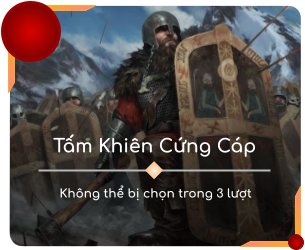
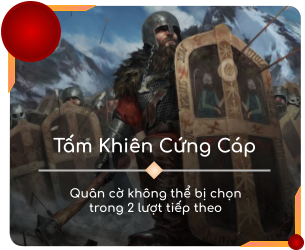
Update

Changed region(s): [[0.177, 0.728, 0.8262, 0.868]]

diff --git a/CMC/main.py b/CMC/main.py
@@ -143,13 +143,13 @@ def setting_game(names):
             env = temp[0]
         pygame.time.delay(50)
 
-    x = 100
+    x = 175
     pygame.time.delay(50)
     while pause:
         textSurface = init.font60.render('TÙY CHỈNH', True, 'white')
         textRect = textSurface.get_rect()
         interval = (WinHeight - offsetHeight) / 6
-        textRect.center = ((WinWidth / 2), offsetHeight * 2 - 50)
+        textRect.center = ((WinWidth / 2), offsetHeight * 2 - 100)
         cell.Cell(0, 0, init.listImage[env]['Background']).draw(WIN, WinHeight, WinWidth)
         WIN.blit(pygame.transform.scale(init.listImage['GEI']['Darker'], (WIDTH, WinHeight)), (offsetWidth, 0))
         WIN.blit(textSurface, textRect)
@@ -157,25 +157,26 @@ def setting_game(names):
         for event in pygame.event.get():
             if event.type == pygame.QUIT:
                 end_game()
-        drawTextImg(timeLeft, init.listImage['GUI']['White Timer'], (WinWidth / 2) - 225, 400 - x, 300, 100, font=init.font50)
-        WIN.blit(init.font15.render('THỜI GIAN TỔNG', True, 'black'), ((WinWidth / 2) - 140, 402 - x))
-        WIN.blit(init.font15.render('PHÚT', True, 'black'), ((WinWidth / 2) - 170, 477 - x))
-        WIN.blit(init.font15.render('GIÂY', True, 'black'), ((WinWidth / 2) - 20, 477 - x))
-        drawTextImg(str(init.SETTINGS['Time Bonus']), init.listImage['GUI']['White Timer'], (WinWidth / 2) + 125, 400 - x, 100, 100, font=init.font50)
-        WIN.blit(init.font15.render('THƯỞNG', True, 'black'), ((WinWidth / 2) + 140, 402 - x))
-        WIN.blit(init.font15.render('GIÂY', True, 'black'), ((WinWidth / 2) + 155, 477 - x))
-        button('', init.listImage['GUI']['Arrow_Up'], '', (WinWidth / 2) - 180, 330 - x, 60, 50, add_min, value = 60)
-        button('', init.listImage['GUI']['Arrow_Up'], '', (WinWidth / 2) - 30, 330 - x, 60, 50, add_second, value = 1)
-        button('', init.listImage['GUI']['Arrow_Up'], '', (WinWidth / 2) + 145, 330 - x, 60, 50, add_time_bonus, value = 1)
-        button('', init.listImage['GUI']['Arrow_Down'], '', (WinWidth / 2) - 180, 520 - x, 60, 50, add_min, value = -60)
-        button('', init.listImage['GUI']['Arrow_Down'], '', (WinWidth / 2) - 30, 520 - x, 60, 50, add_second, value = -1)
-        button('', init.listImage['GUI']['Arrow_Down'], '', (WinWidth / 2) + 145, 520 - x, 60, 50, add_time_bonus, value = -1)
+        drawTextImg(timeLeft, init.listImage['GUI']['White Timer'], (WinWidth / 2) - 225, 425 - x, 300, 100, font=init.font50)
+        WIN.blit(init.font15.render('THỜI GIAN TỔNG', True, 'black'), ((WinWidth / 2) - 140, 427 - x))
+        WIN.blit(init.font15.render('PHÚT', True, 'black'), ((WinWidth / 2) - 170, 502 - x))
+        WIN.blit(init.font15.render('GIÂY', True, 'black'), ((WinWidth / 2) - 20, 502 - x))
+        drawTextImg(str(init.SETTINGS['Time Bonus']), init.listImage['GUI']['White Timer'], (WinWidth / 2) + 125, 425 - x, 100, 100, font=init.font50)
+        WIN.blit(init.font15.render('THƯỞNG', True, 'black'), ((WinWidth / 2) + 140, 422 - x))
+        WIN.blit(init.font15.render('GIÂY', True, 'black'), ((WinWidth / 2) + 155, 497 - x))
+        button('', init.listImage['GUI']['Arrow_Up'], '', (WinWidth / 2) - 180, 360 - x, 60, 50, add_min, value = 60)
+        button('', init.listImage['GUI']['Arrow_Up'], '', (WinWidth / 2) - 30, 360 - x, 60, 50, add_second, value = 1)
+        button('', init.listImage['GUI']['Arrow_Up'], '', (WinWidth / 2) + 145, 360 - x, 60, 50, add_time_bonus, value = 1)
+        button('', init.listImage['GUI']['Arrow_Down'], '', (WinWidth / 2) - 180, 540 - x, 60, 50, add_min, value = -60)
+        button('', init.listImage['GUI']['Arrow_Down'], '', (WinWidth / 2) - 30, 540 - x, 60, 50, add_second, value = -1)
+        button('', init.listImage['GUI']['Arrow_Down'], '', (WinWidth / 2) + 145, 540 - x, 60, 50, add_time_bonus, value = -1)
 
         button('', init.listImage['GUI']['Arrow_Right'], '', (WinWidth / 2) + 245, 720 - x, 50, 60, next_env, value = 1)
         button('', init.listImage['GUI']['Arrow_Left'], '', (WinWidth / 2) - 295, 720 - x, 50, 60, next_env, value = -1)
         button(env, init.listImage[env]['Background'], init.listImage['GEI']['Darken'], (WinWidth / 2) - 200, 620 - x, 400, 250, new_game, color='white', names=names)
 
-        button('BẮT ĐẦU!', init.listImage['GUI']['Button'], init.listImage['GUI']['Hover_Button'], (WinWidth / 2) - 363 / 2, 800, 363, 100, new_game, names=names)
+        button('BẮT ĐẦU!', init.listImage['GUI']['Button'], init.listImage['GUI']['Hover_Button'], (WinWidth / 2) - 363 / 2, 720, 363, 100, new_game, names=names)
+        button('QUAY LẠI', init.listImage['GUI']['Button'], init.listImage['GUI']['Hover_Button'], (WinWidth / 2) - 363 / 2, 850, 363, 100, game_intro)
         pygame.display.update()
 
 def mouse_on_board(pos):
@@ -257,8 +258,8 @@ def update_display():
     Cập nhập cửa sổ hiển thị
     :return: None
     """
-    pygame.time.delay(10)
-    WIN.unlock()
+    # pygame.time.delay(10)
+    # WIN.unlock()
     WIN.fill('white')
     nboard.draw(WIN)
     ncard.draw(WIN, init.font40, Players[turns % 2])
@@ -283,6 +284,10 @@ def main():
     """
     pygame.time.delay(50)
     turn_on_music()
+    try:
+        thread.join()
+    except:
+        pass
     global pause, phase, turns, startTurnTime, timing, playingTeam, clicked, BOT_Thingking, redraw, required, selectedPos, selected
     pause = False
     while True:
@@ -449,6 +454,7 @@ def button(text, img, img_h, x, y, width, height, action = None, color = 'black'
     :return: None
     """
     global clicked
+    pygame.time.delay(5)
     img = pygame.transform.scale(img, (width, height))
     WIN.blit(img, (x, y))
     mouse = pygame.mouse.get_pos()
@@ -499,7 +505,7 @@ def paused():
                 if event.key == pygame.K_ESCAPE:
                     main()
         button('CHƠI TIẾP', init.listImage['GUI']['Button'], init.listImage['GUI']['Hover_Button'], (WinWidth / 2) - 363 / 2, 2 * interval, 363, 100, main)
-        button('CHƠI MỚI', init.listImage['GUI']['Button'], init.listImage['GUI']['Hover_Button'], (WinWidth / 2) - 363 / 2, 3 * interval, 363, 100, setting_game)
+        button('CHƠI MỚI', init.listImage['GUI']['Button'], init.listImage['GUI']['Hover_Button'], (WinWidth / 2) - 363 / 2, 3 * interval, 363, 100, setting_game, player1 = Players[0].get_name(), player2 = Players[1].get_name())
         button('MENU', init.listImage['GUI']['Button'], init.listImage['GUI']['Hover_Button'], (WinWidth / 2) - 363 / 2, 4 * interval, 363, 100, game_intro)
         button('THOÁT', init.listImage['GUI']['Button'], init.listImage['GUI']['Hover_Button'], (WinWidth / 2) - 363 / 2, 5 * interval, 363, 100, end_game)
         pygame.display.update()
@@ -512,7 +518,7 @@ def endGame():
     pygame.mixer.music.pause()
     global pause
     pause = True
-    textSurface = init.font60.render('Player ' + str(turns % 2 + 1) + ' WIN', True, 'white')
+    textSurface = init.font60.render(Players[turns%2].get_name() + ' WIN', True, 'white')
     textRect = textSurface.get_rect()
     interval = (WinHeight - offsetHeight) / 6
     textRect.center = ((WinWidth / 2), offsetHeight*2)
@@ -523,7 +529,7 @@ def endGame():
         for event in pygame.event.get():
             if event.type == pygame.QUIT:
                 end_game()
-        button('CHƠI LẠI', init.listImage['GUI']['Button'], init.listImage['GUI']['Hover_Button'], (WinWidth / 2) - 363 / 2, 2 * interval, 363, 100, new_game, names=names)
+        button('CHƠI LẠI', init.listImage['GUI']['Button'], init.listImage['GUI']['Hover_Button'], (WinWidth / 2) - 363 / 2, 2 * interval, 363, 100, new_game, names={'player1':Players[0].get_name(), 'player2':Players[1].get_name()})
         button('MENU', init.listImage['GUI']['Button'], init.listImage['GUI']['Hover_Button'], (WinWidth / 2) - 363 / 2, 3 * interval, 363, 100, game_intro)
         button('THOÁT', init.listImage['GUI']['Button'], init.listImage['GUI']['Hover_Button'], (WinWidth / 2) - 363 / 2, 4 * interval, 363, 100, end_game)
         pygame.display.update()
@@ -635,6 +641,9 @@ def Simulator_Turn(nBoard, nPlayer, nTurn):
 
     BestMove = []
 
+    if nBoard.is_finished():
+        return chess.PHASE['End'], -10000
+
     if nTurn > Limit_Turn:
         return chess.PHASE['End'], 0
     Sim_Board, Sim_Players = convert_data(nBoard, nPlayer)
@@ -667,7 +676,7 @@ def Simulator_Turn(nBoard, nPlayer, nTurn):
                     sSim_Board.select_Move(tindex, move, histLog=False)
                     result = Simulator_Turn(sSim_Board, sSim_Player, nTurn + 1)
                     point = sSim_Board.get_Score(playingTeam) - result[-1]
-                    # print(object[1].convert_to_readable(), nTurn, tindex, move, point)
+                    print(object[1].convert_to_readable(), nTurn, tindex, move, point)
                     if point > tPoint:
                         tPoint = point
                         tIndex = move
@@ -683,69 +692,66 @@ def Simulator_Turn(nBoard, nPlayer, nTurn):
                 elif tPoint == maxPoint:
                     BestMove += recommentMoves
 
-                try:
-                    for i in range(len(nCard)):
-                        cSim_Board, cSim_Player = convert_data(Sim_Board, Sim_Players)
-                        rBoard = cSim_Board.getrBoard()
-                        required = cSim_Player[nTurn%2].pick_card(i)
-                        CastMagic = cSim_Player[nTurn%2].play_card(cSim_Board, [(object[0][1], object[0][0])])
-                        if 'Fail' not in CastMagic and required == 2 and Sim_Players[nTurn%2].get_name() == 'BOT':
-                            tPoint = -999
-                            tIndex = 0
-                            for x in range(8):
-                                for y in range(8):
-                                    if 'x' in rBoard[x][y]:
-                                        # print(rBoard[x][y], (x, y))
-                                        cSim_Board, cSim_Player = convert_data(Sim_Board, Sim_Players)
-                                        cSim_Player[nTurn % 2].pick_card(i)
-                                        if 'Casted' in cSim_Player[nTurn%2].play_card(cSim_Board, [(object[0][1], object[0][0]), (x, y)]):
-                                            result = Simulator_Turn(cSim_Board, cSim_Player, nTurn + 1)
-                                            point = cSim_Board.get_Score(playingTeam) - result[-1]
-                                            # print(nCard[i].get_name(), object[1].convert_to_readable(), tindex, (x, y), point)
-                                            if point > tPoint:
-                                                tPoint = point
-                                                tIndex = (x, y)
-                                                recommentMoves = [('Card', tindex, tIndex, i)]
-                                            elif point == tPoint:
-                                                tPoint = point
-                                                tIndex = (x, y)
-                                                recommentMoves.append(('Card', tindex, tIndex, i))
-                                            elif point < minCard:
-                                                minCard  = point
-                                                redraw = i
-                            if tPoint > maxPoint:
-                                maxPoint = tPoint
-                                BestMove = recommentMoves
-                            elif tPoint == maxPoint:
-                                BestMove += recommentMoves
-                        elif 'Casted' in CastMagic and required == 2 and Sim_Players[nTurn%2].get_name() == 'BOT':
-                            result = Simulator_Turn(cSim_Board, cSim_Player, nTurn + 1)
-                            point = cSim_Board.get_Score(playingTeam) - result[-1]
-                            # print(nCard[i].get_name(), object[1].convert_to_readable(), tindex, (x, y), point)
-                            if point > maxPoint:
-                                maxPoint = point
-                                tIndex = []
-                                BestMove = [('Card', tindex, tIndex, i)]
-                            elif point == maxPoint:
-                                tPoint = point
-                                tIndex = []
-                                recommentMoves.append(('Card', tindex, tIndex, i))
-                            elif point < minCard:
-                                minCard = point
-                                redraw = i
-
-                except:
-                    print('Error')
+                # try:
+                #     for i in range(len(nCard)):
+                #         cSim_Board, cSim_Player = convert_data(Sim_Board, Sim_Players)
+                #         rBoard = cSim_Board.getrBoard()
+                #         required = cSim_Player[nTurn%2].pick_card(i)
+                #         CastMagic = cSim_Player[nTurn%2].play_card(cSim_Board, [(object[0][1], object[0][0])])
+                #         if 'Fail' not in CastMagic and required == 2 and Sim_Players[nTurn%2].get_name() == 'BOT':
+                #             tPoint = -999
+                #             tIndex = 0
+                #             for x in range(8):
+                #                 for y in range(8):
+                #                     if 'x' in rBoard[x][y]:
+                #                         # print(rBoard[x][y], (x, y))
+                #                         cSim_Board, cSim_Player = convert_data(Sim_Board, Sim_Players)
+                #                         cSim_Player[nTurn % 2].pick_card(i)
+                #                         if 'Casted' in cSim_Player[nTurn%2].play_card(cSim_Board, [(object[0][1], object[0][0]), (x, y)]):
+                #                             result = Simulator_Turn(cSim_Board, cSim_Player, nTurn + 1)
+                #                             point = cSim_Board.get_Score(playingTeam) - result[-1]
+                #                             print(nCard[i].get_name(), object[1].convert_to_readable(), tindex, (x, y), point)
+                #                             if point > tPoint:
+                #                                 tPoint = point
+                #                                 tIndex = (x, y)
+                #                                 recommentMoves = [('Card', tindex, tIndex, i)]
+                #                             elif point == tPoint:
+                #                                 tPoint = point
+                #                                 tIndex = (x, y)
+                #                                 recommentMoves.append(('Card', tindex, tIndex, i))
+                #                             elif point < minCard:
+                #                                 minCard  = point
+                #                                 redraw = i
+                #             if tPoint > maxPoint:
+                #                 maxPoint = tPoint
+                #                 BestMove = recommentMoves
+                #             elif tPoint == maxPoint:
+                #                 BestMove += recommentMoves
+                #         elif 'Casted' in CastMagic and required == 2 and Sim_Players[nTurn%2].get_name() == 'BOT':
+                #             result = Simulator_Turn(cSim_Board, cSim_Player, nTurn + 1)
+                #             point = cSim_Board.get_Score(playingTeam) - result[-1]
+                #             # print(nCard[i].get_name(), object[1].convert_to_readable(), tindex, (x, y), point)
+                #             if point > maxPoint:
+                #                 maxPoint = point
+                #                 tIndex = []
+                #                 BestMove = [('Card', tindex, tIndex, i)]
+                #             elif point == maxPoint:
+                #                 tPoint = point
+                #                 tIndex = []
+                #                 recommentMoves.append(('Card', tindex, tIndex, i))
+                #             elif point < minCard:
+                #                 minCard = point
+                #                 redraw = i
+                # except:
+                #     print('Error')
         except:
             pass
 
     choice = random.choice(BestMove)
-    # print(BestMove)
-    # print(playingTeam, oBoard[(index0[1], index0[0])].convert_to_readable(), index0, index1, maxPoint)
+    print(BestMove, maxPoint)
     nPlayer[nTurn%2].redraw_card({'param':redraw})
     if choice[0] == 'Chess':
         nBoard.select_Chess(choice[1], 2, playingTeam)
-        pygame.time.delay(500)
         if nTurn == Start_Turn:
             nBoard.select_Move(choice[1], choice[2])
         else:
@@ -753,8 +759,8 @@ def Simulator_Turn(nBoard, nPlayer, nTurn):
         return chess.PHASE['End'], maxPoint
     elif choice[0] == 'Card':
         nPlayer[nTurn%2].pick_card(choice[3])
-        pygame.time.delay(500)
-        nPlayer[nTurn%2].play_card(nBoard, choice[1] + choice[2])
+        if nTurn == Start_Turn:
+            nPlayer[nTurn%2].play_card(nBoard, choice[1:3], histLog=True)
+        else:
+            nPlayer[nTurn%2].play_card(nBoard, choice[1:3])
         return chess.PHASE['End'], maxPoint
-
-gui_thread = Thread(target=update_display, args=(nboard, pygame.mouse.get_pos(), turns, phase))

diff --git a/CMC/init.py b/CMC/init.py
@@ -92,6 +92,7 @@ listImage = {
         '07':pygame.image.load('assets/img/Card/07.png'),
         '08': pygame.image.load('assets/img/Card/08.png'),
         '09': pygame.image.load('assets/img/Card/09.png'),
+        '10': pygame.image.load('assets/img/Card/10.png'),
     },
     'Desert': {
         'Normal':pygame.image.load('assets/img/Environment/desert_normal.png'),
@@ -165,12 +166,14 @@ DECK = [
          'ActiveEffects', 2, [ef.Effect('PushChess', turns = 1, phase = 3, value = 1)], directions=['Back'], killable = True),
     Card('Linh Động Chiến Trường', 3, listImage['Cards']['06'], 'Di chuyển về 1 hướng bất kỳ 2 ô',
          'ActiveEffects', 2, [ef.Effect('PushChess', turns=1, phase=3, value=1)], directions=['Around'], killable=False),
-    Card('Tấm Khiên Cứng Cáp', 3, listImage['Cards']['07'], 'Không thể bị chọn trong 3 lượt',
+    Card('Tấm Khiên Cứng Cáp', 3, listImage['Cards']['07'], 'Không thể bị chọn trong 2 lượt tiếp theo',
          'GrantEffects', 1, [ef.Effect('Unselectable', turns = 3, phase=[2, 3])]),
     Card('Phối Hợp Ăn Ý', 4, listImage['Cards']['08'], 'Đổi vị trí của 2 quân cờ đồng minh đứng cạnh nhau',
          'ActiveEffects', 2, [ef.Effect('PushChess', turns=1, phase=3, value=1)], directions=['Around'], killable=False, swap=True, enemy=False),
     Card('Hoán Đổi Không Gian', 5, listImage['Cards']['09'], 'Đổi vị trí của 2 quân cờ đứng cách nhau 1 ô',
          'ActiveEffects', 2, [ef.Effect('PushChess', turns=1, phase=3, value=2)], directions=['Around'], killable=False, swap=True),
+    Card('Sợi Xích Ma Thuật', 4, listImage['Cards']['10'], '1 quân cờ địch đững cạnh đồng minh không thể di chuyển trong lượt tiếp theo',
+         'CastMagic', 2, [ef.Effect('IncreaseSpeed', turns=2, phase=2, value=-10)], directions=['Around'], killable=False, swap=True),
 ]
 
 ENVIRONMENT = {

diff --git a/CMC/card.py b/CMC/card.py
@@ -163,7 +163,7 @@ class Card:
             result = []
             for effect in effects:
                 try:
-                    result.append(copy.copy(effect).active_effect(nBoard, indexs, 3, options = self.__options, playTeam = playTeam, histLog = histLog))
+                    result.append(copy.copy(effect).active_effect(nBoard, indexs, phase, options = self.__options, playTeam = playTeam, histLog = histLog))
                     effect.unactive_effect()
                 except:
                     result.append(ef.STATUS[1])
@@ -171,8 +171,23 @@ class Card:
                 result[result.index(ef.STATUS[3])] = 'Casted'
             return result
 
-        def MultiEffects():
-            pass
+        def CastMagic(effects, nBoard, indexs):
+            phase = 3
+            result = []
+            AOE = False
+            friendlyfire = True
+            allMap = False
+            if not allMap:
+                result.append(ef.Effect('PushChess', turns = 1, phase = 3, value = 1).active_effect(nBoard, [indexs[0]], phase, options = self.__options, playTeam = playTeam, histLog = histLog, enemy=friendlyfire))
+            try:
+                if not AOE:
+                    result.append(GrantEffects(self.__effects, nBoard, [indexs[1]]))
+            except:
+                pass
+            if ef.STATUS[3] in result:
+                result[result.index(ef.STATUS[3])] = 'Casted'
+            return result
+
 
         try:
             result = locals()[self.__skillCard](self.__effects, nBoard, indexs)
